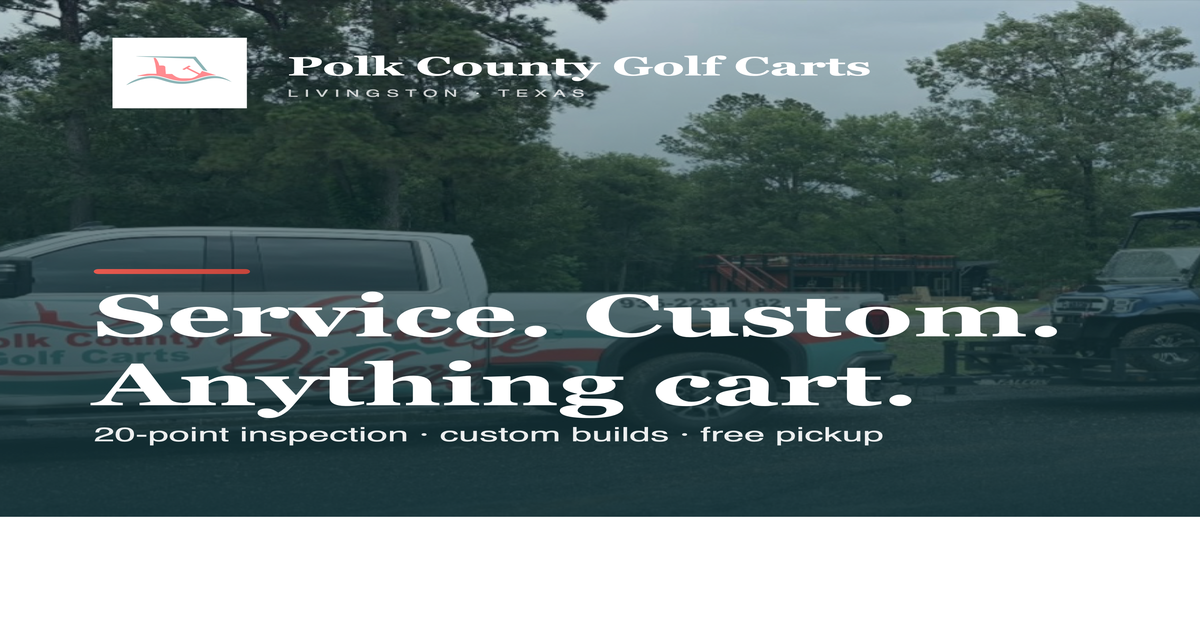
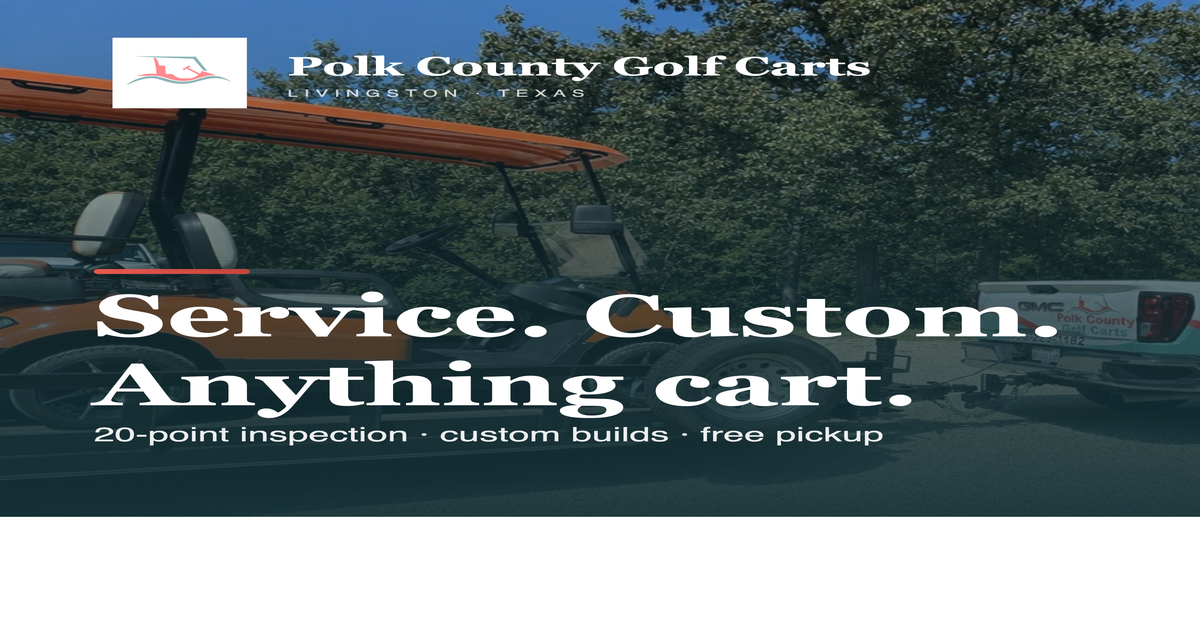
Replace the Pickup & Delivery photo with the new orange-cart shot
Client supplied a fresher photo of the branded "Cruise Different"
GMC truck hitched to a trailer with an orange Breezy EV cart, taken
in better light with cleaner framing than the previous shot.

- Resized + recompressed the supplied PNG (3.4 MB) to a 1600×1200
  JPEG (~765 KB, quality 72) and saved as
  site/assets/photos/truck-towing-orange-cart.jpg.
- Swapped the Pickup & Delivery split image on /services/ to the
  new file, updated the alt text and intrinsic width/height.
- Regenerated site/assets/og/services.png so the social card stays
  consistent with what loads on the page.
- gen_og.py CARDS list points at the new filename so future
  regenerations use the same source.

Verified in the browser preview: image loads at native 1600×1200
on /services/, OG card preview renders correctly.

diff --git a/site/services/index.html b/site/services/index.html
@@ -172,7 +172,7 @@
       <a class="btn btn-coral" href="tel:[phone redacted]">📞 Call [phone redacted]</a>
     </div>
     <div class="photo-block">
-      <img src="/assets/photos/truck-towing-carts.jpg" alt="PCGC branded GMC truck towing a trailer with two golf carts" width="1200" height="600" loading="lazy">
+      <img src="/assets/photos/truck-towing-orange-cart.jpg" alt="PCGC branded 'Cruise Different' GMC truck hitched to a trailer with an orange Breezy EV cart" width="1600" height="1200" loading="lazy">
     </div>
   </div>
 </section>

diff --git a/build.py b/build.py
@@ -577,7 +577,7 @@ def page_services():
               <a class="btn btn-coral" href="tel:{BIZ['phone_primary'].replace('-','')}">📞 Call {BIZ['phone_primary']}</a>
             </div>
             <div class="photo-block">
-              <img src="/assets/photos/truck-towing-carts.jpg" alt="PCGC branded GMC truck towing a trailer with two golf carts" width="1200" height="600" loading="lazy">
+              <img src="/assets/photos/truck-towing-orange-cart.jpg" alt="PCGC branded 'Cruise Different' GMC truck hitched to a trailer with an orange Breezy EV cart" width="1600" height="1200" loading="lazy">
             </div>
           </div>
         </section>

diff --git a/gen_og.py b/gen_og.py
@@ -38,7 +38,7 @@ OUT_DIR = os.path.join(ROOT, "site", "assets", "og")
 CARDS = [
     ("home",      "hero-sign-corvette.jpg",     "Brand-new. Refurbished. Used.",   "Polk County's family-owned golf cart shop"),
     ("carts",     "breezy-ev-lake-grass.jpg",   "The 2026 Breezy EV.",              "Lithium battery · 37 mph · 2-year warranty"),
-    ("services",  "truck-towing-carts.jpg",     "Service. Custom. Anything cart.",  "20-point inspection · custom builds · free pickup"),
+    ("services",  "truck-towing-orange-cart.jpg", "Service. Custom. Anything cart.", "20-point inspection · custom builds · free pickup"),
     ("about",     "owner-john.jpg",             "Family-owned. Locally trusted.",   "Serving our community since 2020"),
     ("contact",   "shop-exterior.jpg",          "Let's talk carts.",                "1732 FM 3277 · Livingston, TX · [phone redacted]"),
     ("privacy",   "breezy-ev-lakeside.jpg",     "Polk County Golf Carts",           "Privacy Policy"),